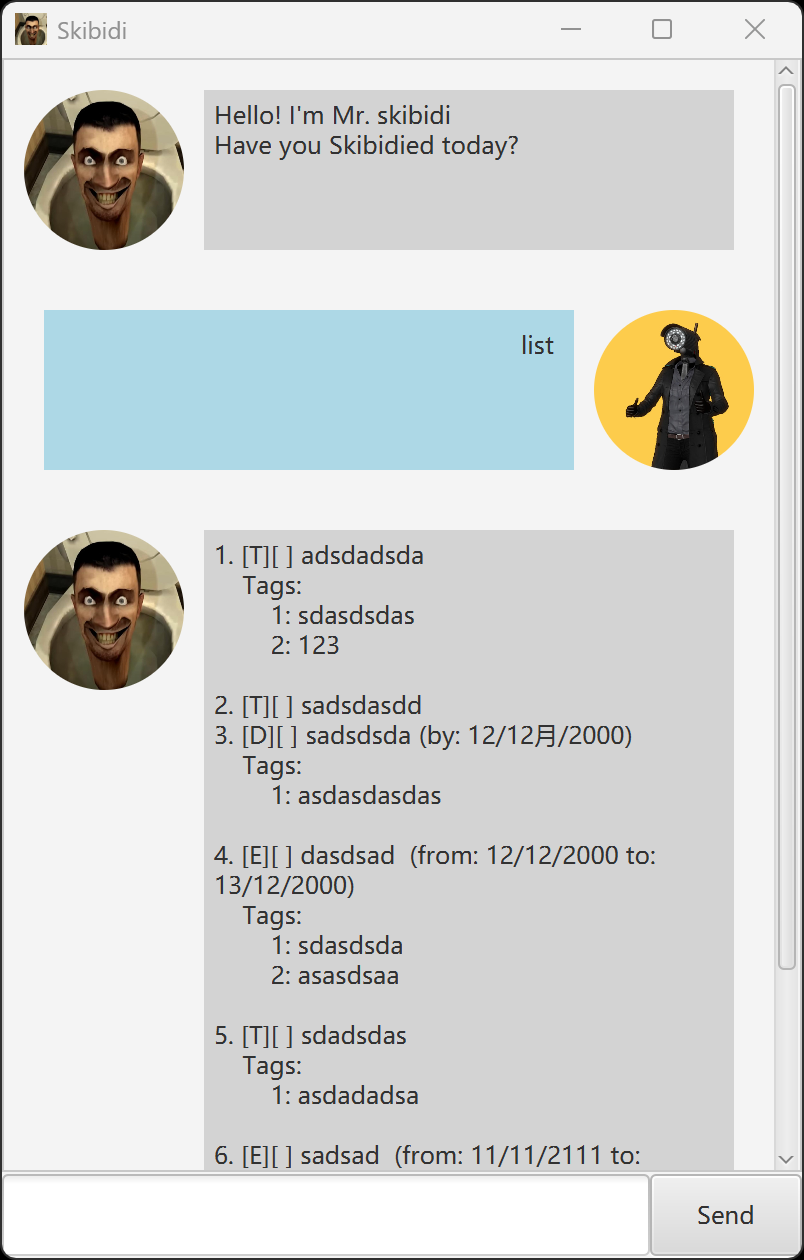
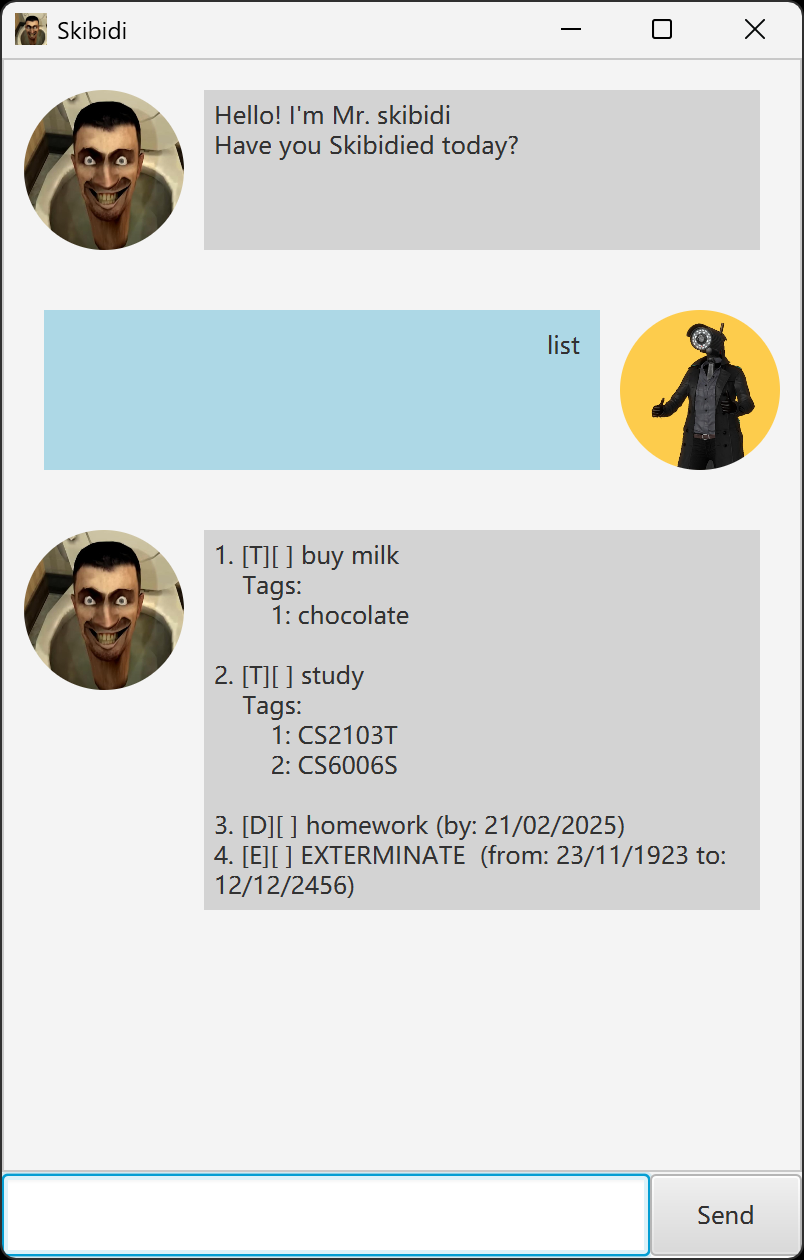
Update date format in chat
Update product page image

diff --git a/src/main/java/skibidi/task/Deadline.java b/src/main/java/skibidi/task/Deadline.java
@@ -51,7 +51,7 @@ public class Deadline extends Task {
      */
     @Override
     public String toString() {
-        DateTimeFormatter df = new DateTimeFormatterBuilder().appendPattern("dd/MMM/yyyy").toFormatter();
+        DateTimeFormatter df = new DateTimeFormatterBuilder().appendPattern("dd/MM/yyyy").toFormatter();
 
         String ret = String.format("%s%s %s(by: %s)",
                 super.getTaskType(), super.getIsDone(), super.getTask(), this.deadline.format(df));

diff --git a/src/main/java/skibidi/gui/Main.java b/src/main/java/skibidi/gui/Main.java
@@ -28,6 +28,6 @@ public class Main extends Application {
         } catch (IOException e) {
             logger.log(Level.SEVERE, e.getMessage());
         }
-    }
+}
 }
 
